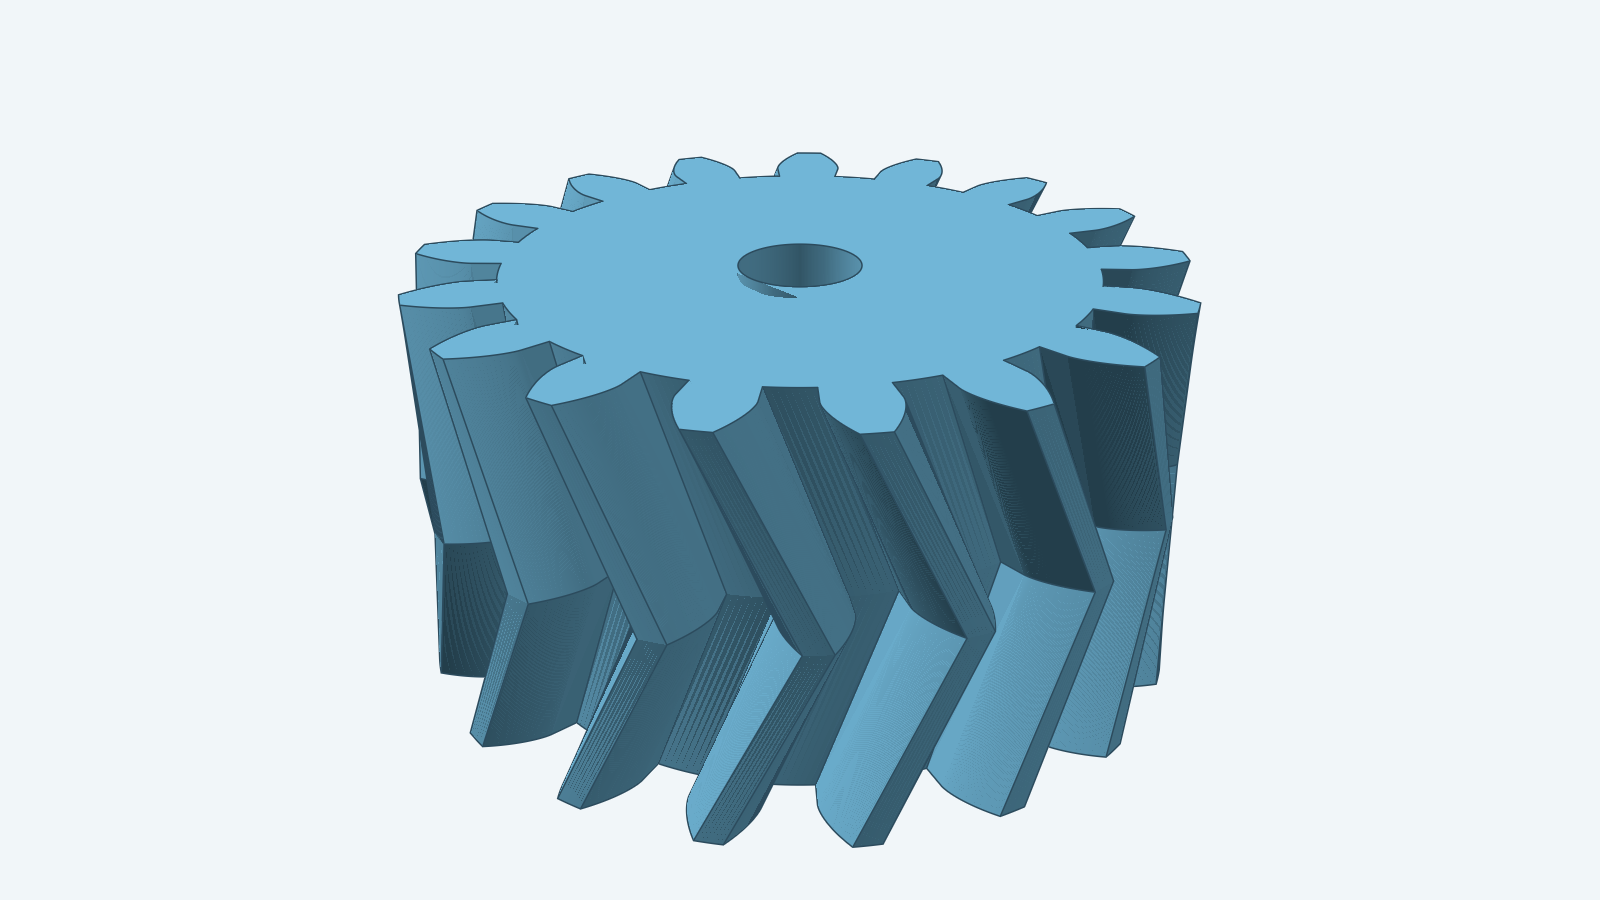
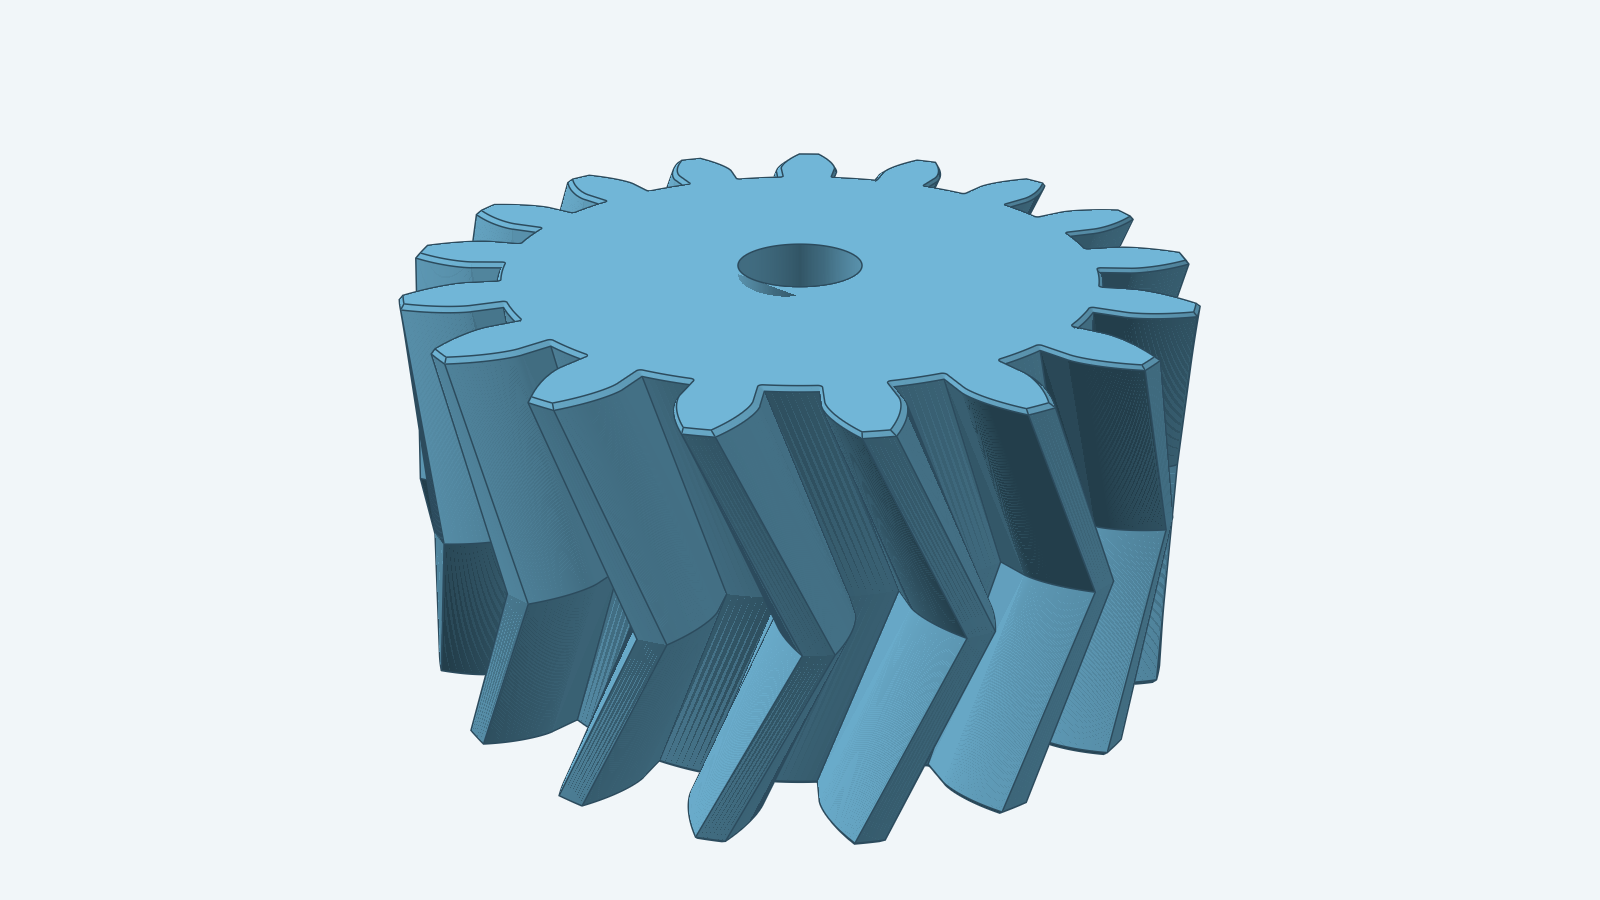
add verified herringbone cap chamfers

diff --git a/models/herringbonegear/herringbonegear_test.go b/models/herringbonegear/herringbonegear_test.go
@@ -115,6 +115,43 @@ func TestRealHerringboneGearThroughBore(t *testing.T) {
 	}
 }
 
+func TestSmallRealHerringboneGearWithBoreAndCapChamfer(t *testing.T) {
+	p := herringbonegear.DefaultParams()
+	p.Teeth = 8
+	p.Samples = 5
+	p.Thickness = 2
+	p.BoreDiameter = 1
+	p.CapChamfer = 0.1
+	doc := decad.New()
+	gear, err := herringbonegear.Build(t.Context(), doc, p)
+	require.NoError(t, err)
+	require.True(t, gear.IsSolid())
+	require.Len(t, doc.Bodies(), 1)
+	mesh, err := gear.Tessellate(t.Context(), units.Millimeters(0.1),
+		decad.WithVerification(decad.VerifyAll))
+	require.NoError(t, err)
+	require.True(t, mesh.BoundaryVerified())
+	require.True(t, mesh.VolumeVerified())
+	require.Equal(t, 0, meshEuler(mesh), "the chamfered gear has one through-bore")
+}
+
+func TestDefaultRealHerringboneGearWithBoreAndCapChamfer(t *testing.T) {
+	p := herringbonegear.DefaultParams()
+	p.BoreDiameter = 3
+	p.CapChamfer = 0.1
+	doc := decad.New()
+	gear, err := herringbonegear.Build(t.Context(), doc, p)
+	require.NoError(t, err)
+	require.True(t, gear.IsSolid())
+	require.Len(t, doc.Bodies(), 1)
+	mesh, err := gear.Tessellate(t.Context(), units.Millimeters(0.1),
+		decad.WithVerification(decad.VerifyAll))
+	require.NoError(t, err)
+	require.True(t, mesh.BoundaryVerified())
+	require.True(t, mesh.VolumeVerified())
+	require.Equal(t, 0, meshEuler(mesh), "the chamfered gear has one through-bore")
+}
+
 func meshEuler(mesh *decad.Mesh) int {
 	edges := make(map[[2]int]struct{})
 	triangles := mesh.Triangles()

diff --git a/models/bevelgear/pair.go b/models/bevelgear/pair.go
@@ -54,7 +54,7 @@ func BuildPair(ctx context.Context, doc *decad.Document, p Params) (GearPair, er
 				return GearPair{}, fmt.Errorf("mirror identical spiral driving gear: %w", err)
 			}
 		} else {
-			driving, err = pinion.Duplicate(ctx)
+			driving, err = decad.Copy(ctx, pinion)
 			if err != nil {
 				return GearPair{}, fmt.Errorf("copy identical straight driving gear: %w", err)
 			}
@@ -64,7 +64,7 @@ func BuildPair(ctx context.Context, doc *decad.Document, p Params) (GearPair, er
 	if err != nil {
 		return GearPair{}, fmt.Errorf("rotate pinion shaft: %w", err)
 	}
-	pinion, err = pinion.Placed(ctx, pinionTurn)
+	pinion, err = decad.Transform(ctx, pinion, pinionTurn)
 	if err != nil {
 		return GearPair{}, fmt.Errorf("place pinion: %w", err)
 	}
@@ -78,7 +78,7 @@ func BuildPair(ctx context.Context, doc *decad.Document, p Params) (GearPair, er
 	if err != nil {
 		return GearPair{}, fmt.Errorf("rotate driving gear by half a tooth pitch: %w", err)
 	}
-	driving, err = driving.Placed(ctx, drivingTurn)
+	driving, err = decad.Transform(ctx, driving, drivingTurn)
 	if err != nil {
 		return GearPair{}, fmt.Errorf("place driving gear: %w", err)
 	}

diff --git a/models/bevelgear/join_test.go b/models/bevelgear/join_test.go
@@ -85,7 +85,7 @@ func TestRealEightToothSecondPatternedJoin(t *testing.T) {
 
 	turn, err := r3.Rotation(r3.NewVec(1, 0, 0), units.Radians(2*math.Pi/float64(p.Teeth)))
 	require.NoError(t, err)
-	secondTooth, err := finalTooth.PlacedCopy(t.Context(), turn)
+	secondTooth, err := decad.Copy(t.Context(), finalTooth, decad.WithCopyPlacement(turn))
 	require.NoError(t, err)
 	blank, err := bevelgear.BuildBlank(t.Context(), doc, p)
 	require.NoError(t, err)

diff --git a/models/bevelgear/spiral_pattern.go b/models/bevelgear/spiral_pattern.go
@@ -21,7 +21,7 @@ func patternSpiralTooth(ctx context.Context, trimmed *decad.Body, teeth int) ([]
 		if err != nil {
 			return nil, fmt.Errorf("rotate spiral tooth %d: %w", i+1, err)
 		}
-		pattern[i], err = trimmed.PlacedCopy(ctx, turn)
+		pattern[i], err = decad.Copy(ctx, trimmed, decad.WithCopyPlacement(turn))
 		if err != nil {
 			return nil, fmt.Errorf("place spiral tooth %d: %w", i+1, err)
 		}

diff --git a/models/bevelgear/bevelgear.go b/models/bevelgear/bevelgear.go
@@ -247,7 +247,7 @@ func buildStraightMember(ctx context.Context, doc *decad.Document, p, geometryPa
 		if err != nil {
 			return nil, fmt.Errorf("rotate tooth %d: %w", i+1, err)
 		}
-		pattern[i], err = trimmedTooth.PlacedCopy(ctx, turn)
+		pattern[i], err = decad.Copy(ctx, trimmedTooth, decad.WithCopyPlacement(turn))
 		if err != nil {
 			return nil, fmt.Errorf("place tooth %d: %w", i+1, err)
 		}

diff --git a/models/helicalgear/helicalgear.go b/models/helicalgear/helicalgear.go
@@ -83,7 +83,7 @@ func PreparePattern(ctx context.Context, doc *decad.Document, p Params, tooth *d
 		if err != nil {
 			return nil, nil, fmt.Errorf("rotate tooth %d: %w", i+1, err)
 		}
-		pattern[i], err = tooth.PlacedCopy(ctx, turn)
+		pattern[i], err = decad.Copy(ctx, tooth, decad.WithCopyPlacement(turn))
 		if err != nil {
 			return nil, nil, fmt.Errorf("place tooth %d: %w", i+1, err)
 		}

diff --git a/models/bevelgear/blank.go b/models/bevelgear/blank.go
@@ -196,7 +196,7 @@ func BuildBlankPair(ctx context.Context, doc *decad.Document, p Params) (BlankPa
 	if err != nil {
 		return BlankPair{}, fmt.Errorf("build pinion blank: %w", err)
 	}
-	pinion, err = pinion.Placed(ctx, turn)
+	pinion, err = decad.Transform(ctx, pinion, turn)
 	if err != nil {
 		return BlankPair{}, fmt.Errorf("place pinion blank: %w", err)
 	}

diff --git a/tools/render/herringbonegear.go b/tools/render/herringbonegear.go
@@ -13,6 +13,7 @@ import (
 func herringboneGearHero(ctx context.Context) (solidlens.Scene, error) {
 	params := herringbonegear.DefaultParams()
 	params.BoreDiameter = 3
+	params.CapChamfer = 0.1
 	body, err := herringbonegear.Build(ctx, decad.New(), params)
 	if err != nil {
 		return solidlens.Scene{}, fmt.Errorf("build herringbone gear: %w", err)

diff --git a/models/bevelgear/spiral_twist.go b/models/bevelgear/spiral_twist.go
@@ -41,7 +41,7 @@ func twistSpiralSlabs(ctx context.Context, slabs []*decad.Body,
 		if err != nil {
 			return nil, fmt.Errorf("rotate spiral slab %d: %w", i, err)
 		}
-		placed, err := slab.Placed(ctx, turn)
+		placed, err := decad.Transform(ctx, slab, turn)
 		if err != nil {
 			return nil, fmt.Errorf("place spiral slab %d: %w", i, err)
 		}

diff --git a/models/herringbonegear/README.md b/models/herringbonegear/README.md
@@ -13,9 +13,9 @@ order. The [steps](steps.md) map them to Sketch and Decad.
 The real eight-tooth, 2 mm thick, +14.5° gear and the source-default 17-tooth
 gear pass `Tessellate(0.1 mm, VerifyAll)` with one source-order variadic `Union`.
 The real eight-tooth gear with a 1 mm bore and the default 17-tooth gear with a
-3 mm bore also pass `VerifyAll`; both meshes have one through-hole. The hero
-renders the default 17-tooth gear with a 3 mm bore and no cap chamfer. Decad's
-approved outer-cap Chamfer repair is still under review.
+3 mm bore also pass `VerifyAll`; both meshes have one through-hole. The same
+bored gears pass with 0.1 mm outer-cap chamfers. The hero renders the default
+17-tooth gear with its 3 mm bore and 0.1 mm cap chamfers.
 
 The mirrored tooth alone passes `VerifyAll` for signed 14.5°, 35°, and 90°
 angles. Its full-height bounds and midpoint centroid check the chevron symmetry.

diff --git a/models/herringbonegear/instructions.md b/models/herringbonegear/instructions.md
@@ -44,6 +44,6 @@ The joined tooth alone passes the same mesh check for signed 14.5°, 35°, and
 90° angles. Its bounds span the full thickness and its centroid lies at the
 mirror plane.
 The same small gear with a 1 mm through-bore and the default gear with a 3 mm
-through-bore pass `VerifyAll` on merged Decad `6ab45eb70643`. Their mesh Euler
-characteristic is zero. The separate approved outer-cap Chamfer repair has not
-passed `VerifyAll` on the bored gear yet.
+through-bore pass `VerifyAll`. Their mesh Euler characteristic is zero. Both
+gears also pass `VerifyAll` and retain Euler characteristic zero with 0.1 mm
+outer-cap chamfers on merged Decad `9dee32fbe599`.

diff --git a/models/herringbonegear/steps.md b/models/herringbonegear/steps.md
@@ -20,5 +20,4 @@ root disc, fillet, bore, and cap chamfer reuse the helical and spur packages.
 
 The source-order eight-tooth and default 17-tooth gears pass step 5 without a
 bore and with 1 mm and 3 mm bores, respectively. Both bored meshes have one
-through-hole. The separate outer-cap Chamfer repair has not yet passed the
-real bored-gear mesh check.
+through-hole. Both also pass with 0.1 mm outer-cap chamfers.
